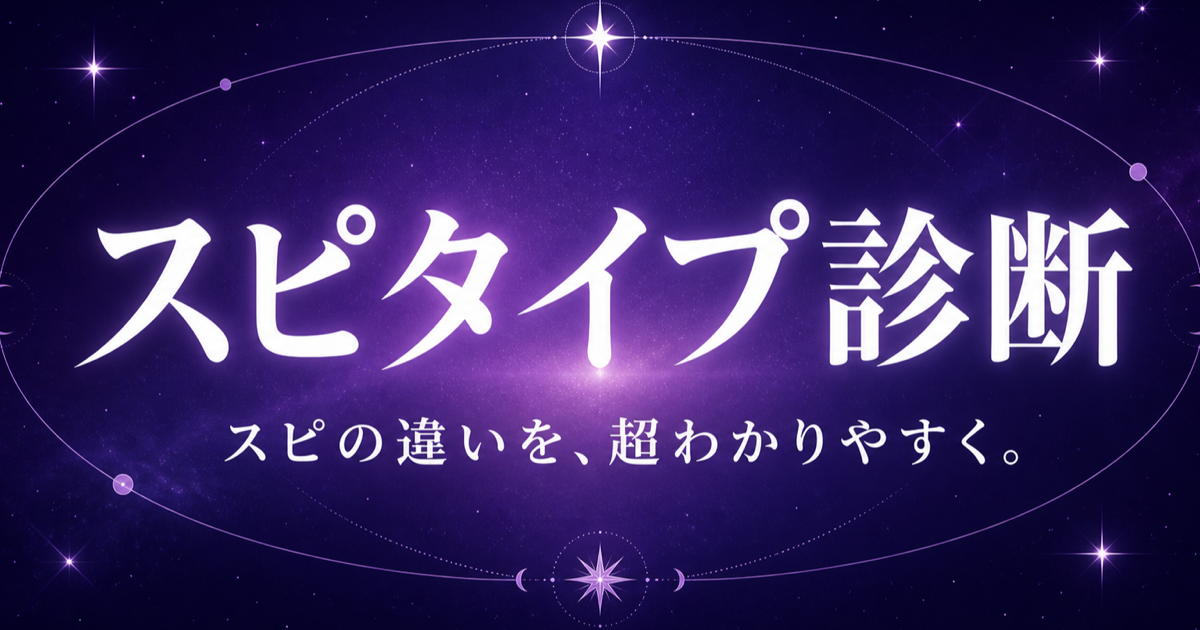
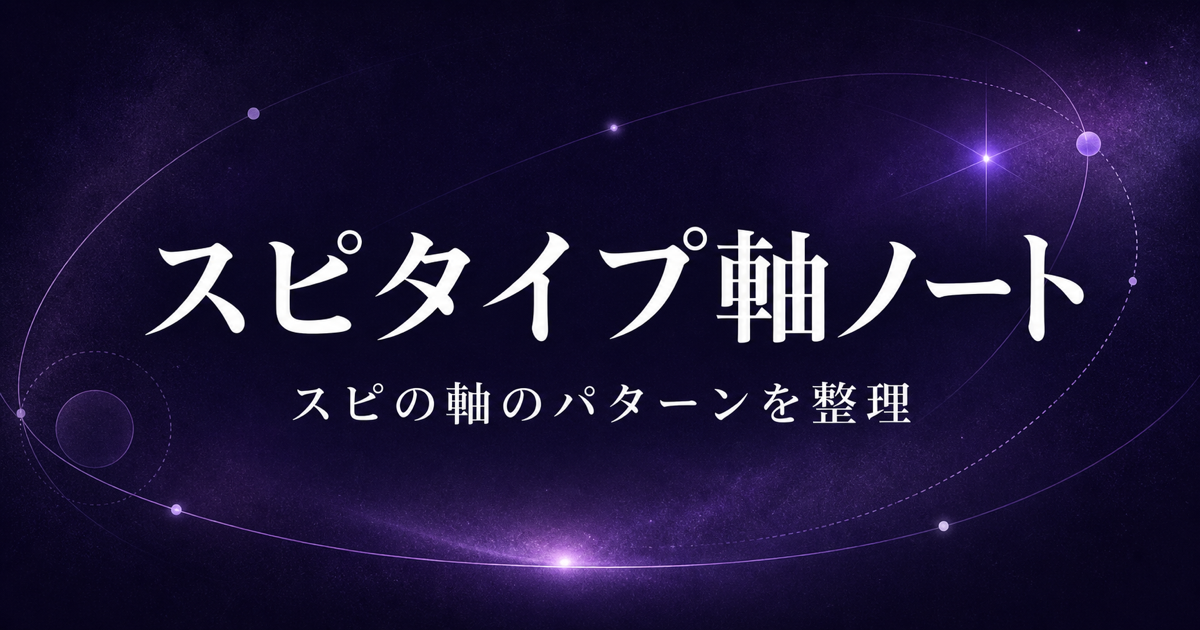
Reframe site as an axis planning notebook

diff --git a/app/globals.css b/app/globals.css
@@ -83,23 +83,20 @@ button { font: inherit; }
 .brand svg { width: 17px; }
 .header-note { color: rgba(255,255,255,.52); font-size: 10px; font-weight: 700; letter-spacing: .08em; }
 
-.intro { min-height: 540px; padding: 116px max(22px, calc((100vw - 1080px) / 2)) 54px; color: white; background: radial-gradient(circle at 83% 18%, rgba(189,161,255,.58), transparent 23%), radial-gradient(circle at 78% 22%, transparent 0 20%, rgba(255,255,255,.12) 20.2% 20.5%, transparent 20.7%), linear-gradient(145deg, #191428 0%, #34215e 54%, #1a1521 100%); }
+.intro { min-height: 400px; padding: 116px max(22px, calc((100vw - 1080px) / 2)) 62px; color: white; background: radial-gradient(circle at 83% 18%, rgba(189,161,255,.58), transparent 23%), radial-gradient(circle at 78% 22%, transparent 0 20%, rgba(255,255,255,.12) 20.2% 20.5%, transparent 20.7%), linear-gradient(145deg, #191428 0%, #34215e 54%, #1a1521 100%); }
 .kicker { margin: 0 0 18px; color: #d5c8ff; font-size: 11px; font-weight: 800; letter-spacing: .13em; }
 .kicker.dark { color: #7358e7; }
 .kicker.light { color: #bba7ff; }
 .intro h1 { max-width: 760px; margin: 0; font-size: clamp(44px, 8vw, 82px); line-height: 1.04; letter-spacing: -.065em; font-weight: 900; }
-.intro-text { margin: 24px 0 0; color: rgba(255,255,255,.67); font-size: 15px; line-height: 1.9; }
-.jump-link { display: inline-flex; align-items: center; gap: 6px; min-height: 48px; margin-top: 28px; padding: 0 19px; color: #251a3a; background: white; border-radius: 999px; font-size: 14px; font-weight: 800; text-decoration: none; }
-.jump-link svg { width: 17px; }
 
-.guide { width: min(100% - 36px, 760px); margin: -23px auto 0; position: relative; display: grid; grid-template-columns: auto 1fr; gap: 14px; padding: 19px 20px; background: white; border-radius: 16px; box-shadow: 0 16px 45px rgba(30,18,56,.11); }
+.guide { width: min(100% - 36px, 760px); margin: 0 auto; display: grid; grid-template-columns: auto 1fr; gap: 14px; padding: 28px 2px; border-bottom: 1px solid #d8d4cd; }
 .guide > span { color: #7358e7; font-size: 11px; font-weight: 900; letter-spacing: .05em; }
 .guide p { margin: -2px 0 0; color: #68636e; font-size: 13px; line-height: 1.7; }
 .guide strong { color: #1b1820; }
 
-.axis-section { width: min(100%, 820px); margin: 0 auto; padding: 88px 18px 100px; }
-.axis-heading { display: flex; align-items: flex-end; justify-content: space-between; margin-bottom: 28px; }
-.axis-heading h2 { margin: 0; font-size: 34px; line-height: 1.1; letter-spacing: -.055em; }
+.axis-section { width: min(100%, 820px); margin: 0 auto; padding: 56px 18px 100px; }
+.axis-heading { display: flex; align-items: center; justify-content: space-between; margin-bottom: 18px; }
+.axis-heading .kicker { margin: 0; }
 .axis-heading > span { color: #837e88; font-size: 12px; font-weight: 700; }
 .category-tabs { position: sticky; z-index: 4; top: 0; display: flex; gap: 7px; overflow-x: auto; margin: 0 -18px; padding: 12px 18px; background: rgba(247,245,239,.94); backdrop-filter: blur(14px); scrollbar-width: none; }
 .category-tabs::-webkit-scrollbar { display: none; }
@@ -114,10 +111,11 @@ button { font: inherit; }
 .strong-label { padding: 3px 7px; color: #5f45c9; background: #e9e2ff; border-radius: 999px; letter-spacing: 0; }
 .axis-item h3 { margin: 0 0 18px; color: #77717d; font-size: 12px; line-height: 1.6; letter-spacing: .04em; }
 .axis-choices { display: grid; gap: 8px; }
-.axis-choices > div { display: grid; grid-template-columns: 34px minmax(0, 1fr); align-items: center; min-height: 74px; padding: 11px 14px; border: 1px solid #ddd8e3; border-radius: 14px; background: rgba(255,255,255,.54); }
+.axis-choices > div { display: grid; grid-template-columns: 28px minmax(0, 1fr); align-items: start; min-height: 68px; padding: 13px 2px; border-top: 1px solid #ddd8e3; }
+.axis-choices > div:last-child { border-bottom: 1px solid #ddd8e3; }
 .axis-choices > div > div { min-width: 0; }
-.axis-choices b { display: grid; place-items: center; width: 25px; height: 25px; border-radius: 50%; color: white; background: #7358e7; font-size: 11px; }
-.axis-choices > div:nth-child(2) b { color: #4e4656; background: #e4e0e7; }
+.axis-choices b { padding-top: 3px; color: #7358e7; font-size: 11px; }
+.axis-choices > div:nth-child(2) b { color: #746d79; }
 .axis-choices strong { font-size: clamp(16px, 4.8vw, 20px); line-height: 1.4; letter-spacing: -.035em; }
 .axis-choices em { margin-left: 4px; font-size: .68em; font-style: normal; font-weight: 700; letter-spacing: 0; }
 .axis-choices span { display: block; margin-top: 3px; color: #77717d; font-size: 10px; font-weight: 500; line-height: 1.55; letter-spacing: 0; }
@@ -134,9 +132,8 @@ footer strong { color: #1b1820; font-size: 15px; }
 
 @media (min-width: 720px) {
   .site-header { height: 76px; }
-  .intro { min-height: 660px; padding-top: 160px; }
-  .intro-text { font-size: 17px; }
-  .guide { padding: 23px 28px; }
+  .intro { min-height: 510px; padding-top: 160px; }
+  .guide { padding: 32px 2px; }
   .axis-section { padding-top: 110px; }
   .axis-item { padding: 42px 12px 46px; }
   .axis-choices { gap: 10px; }

diff --git a/app/page.tsx b/app/page.tsx
@@ -1,7 +1,7 @@
 'use client';
 
 import { useMemo, useState } from 'react';
-import { ChevronDown, Sparkles } from 'lucide-react';
+import { Sparkles } from 'lucide-react';
 
 type Axis = {
   id: number;
@@ -58,20 +58,14 @@ export default function Home() {
       <header className="site-header">
         <a href="#top" className="brand" aria-label="スピタイプ診断 トップへ">
           <Sparkles aria-hidden="true" />
-          <span>スピタイプ診断</span>
+          <span>スピタイプ軸ノート</span>
         </a>
-        <span className="header-note">軸アイデアノート</span>
+        <span className="header-note">26 AXIS PATTERNS</span>
       </header>
 
       <section className="intro" id="top">
         <p className="kicker">16タイプをつくる、軸候補</p>
-        <h1>スピの違いを、<br />超わかりやすく。</h1>
-        <p className="intro-text">
-          正解を決める診断じゃない。<br />「自分はこっちかも」で選んでみよう。
-        </p>
-        <a className="jump-link" href="#axis-list">
-          候補を見る <ChevronDown aria-hidden="true" />
-        </a>
+        <h1>スピの軸の<br />パターンを整理</h1>
       </section>
 
       <section className="guide" aria-label="この資料の見方">
@@ -81,10 +75,7 @@ export default function Home() {
 
       <section className="axis-section" id="axis-list">
         <div className="axis-heading">
-          <div>
-            <p className="kicker dark">AXIS IDEAS</p>
-            <h2>どっちに近い？</h2>
-          </div>
+          <p className="kicker dark">AXIS PATTERNS</p>
           <span>{axes.length}候補</span>
         </div>
 
@@ -110,7 +101,7 @@ export default function Home() {
                 <div className="axis-meta">
                   <span>{String(axis.id).padStart(2, '0')}</span>
                   <span>{axis.category}</span>
-                  {axis.strong && <span className="strong-label">推し軸</span>}
+                  {axis.strong && <span className="strong-label">有力候補</span>}
                 </div>
                 <h3>{axis.question}</h3>
                 <div className="axis-choices">

diff --git a/app/layout.tsx b/app/layout.tsx
@@ -5,18 +5,18 @@ import './globals.css';
 const geist = Geist({ variable: '--font-geist', subsets: ['latin'] });
 
 export const metadata: Metadata = {
-  title: 'スピタイプ診断｜軸アイデアノート',
+  title: 'スピタイプ軸ノート｜26の軸パターン',
   description: 'あなたのスピリチュアル観を16タイプに。診断の土台になる、わかりやすい二択軸のアイデア集。',
   openGraph: {
-    title: 'スピタイプ診断｜軸アイデアノート',
-    description: '「何を信じる？」より、「世界をどう見ている？」を比べよう。',
+    title: 'スピタイプ軸ノート｜26の軸パターン',
+    description: 'スピの軸のパターンを、26候補からわかりやすく整理。',
     type: 'website',
     images: [{ url: '/og.png', width: 1200, height: 630, alt: 'スピタイプ診断' }],
   },
   twitter: {
     card: 'summary_large_image',
-    title: 'スピタイプ診断｜軸アイデアノート',
-    description: '「何を信じる？」より、「世界をどう見ている？」を比べよう。',
+    title: 'スピタイプ軸ノート｜26の軸パターン',
+    description: 'スピの軸のパターンを、26候補からわかりやすく整理。',
     images: ['/og.png'],
   },
 };
